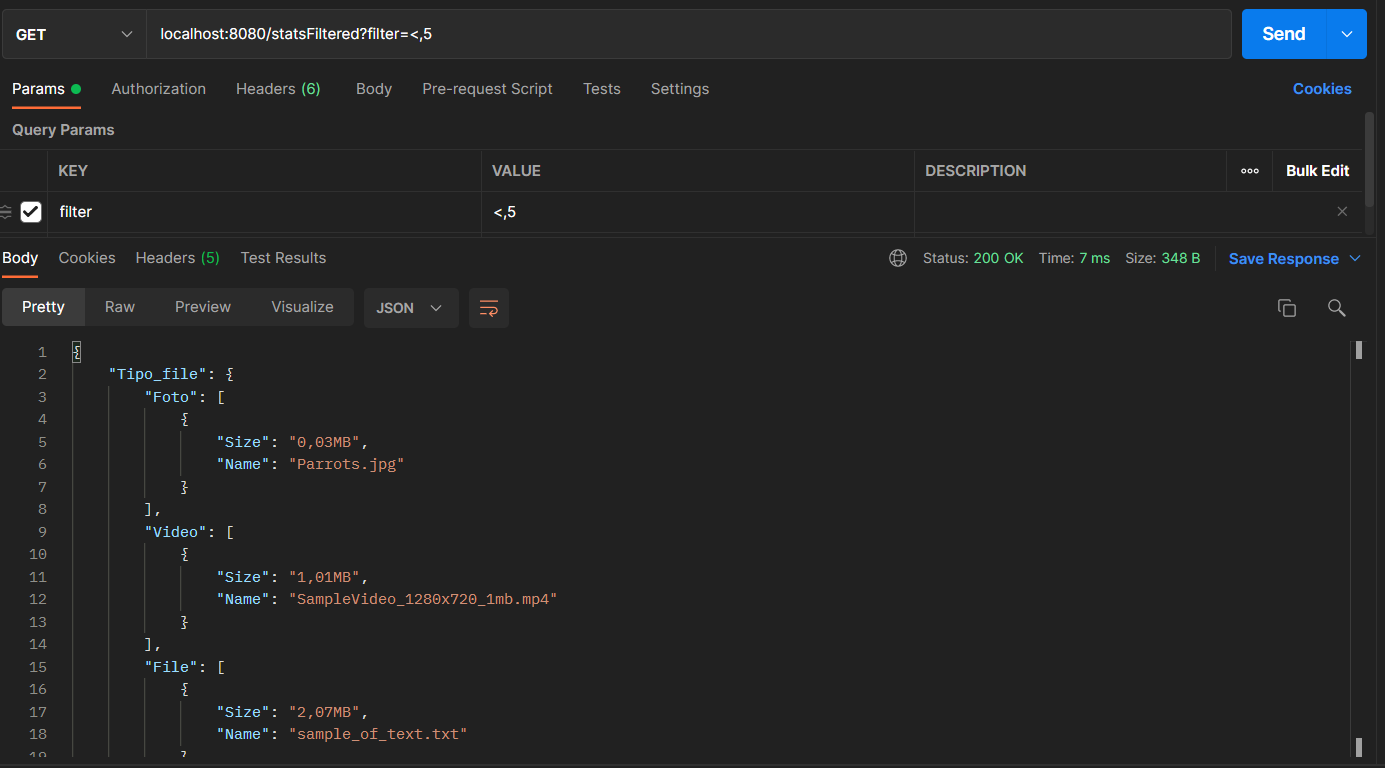
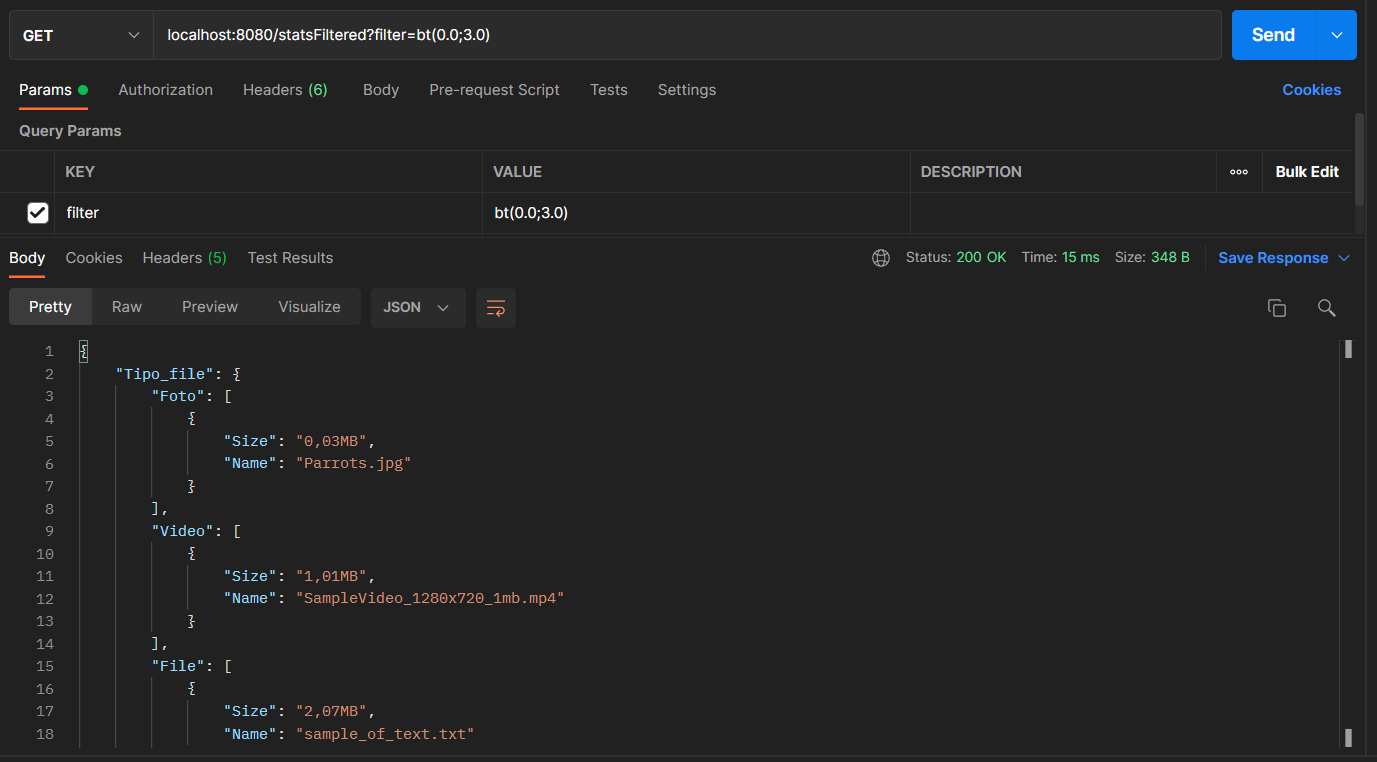
Correzione errori generali
-Ottimizzazione chiamata filteredStats
-Correzione errori readme
-Aggiunto Apache commons come dependency al pom.xml

diff --git a/src/main/java/it/giuugcola/OOPProject/restController/CallsHandler.java b/src/main/java/it/giuugcola/OOPProject/restController/CallsHandler.java
@@ -6,14 +6,15 @@ import it.giuugcola.OOPProject.metaData.DownloadedContent;
 import it.giuugcola.OOPProject.metaData.FileMinAvgMax;
 import it.giuugcola.OOPProject.metaData.MultiMedia;
 import it.giuugcola.OOPProject.settings.DropboxClient;
-import org.springframework.util.StringUtils;
+import org.apache.commons.lang3.StringUtils;
 
 import java.io.*;
 import java.util.ArrayList;
 import java.util.Collections;
 import java.util.Map;
+import java.util.stream.Stream;
 
-public class CallsHandler{
+public class CallsHandler {
 
     private static final String DOWNLOAD_FOLDER_PATH = "Downloads";
 
@@ -21,9 +22,7 @@ public class CallsHandler{
         ListFolderResult metadata = null;
 
         try {
-            metadata = DropboxClient.getClient()
-                    .files()
-                    .listFolder("");
+            metadata = DropboxClient.getClient().files().listFolder("");
         } catch (DbxException e) {
             e.printStackTrace();
         }
@@ -35,9 +34,7 @@ public class CallsHandler{
         Metadata metadata = null;
 
         try {
-            metadata = DropboxClient.getClient()
-                    .files()
-                    .getMetadata(path);
+            metadata = DropboxClient.getClient().files().getMetadata(path);
         } catch (DbxException e) {
             e.printStackTrace();
         }
@@ -51,10 +48,7 @@ public class CallsHandler{
         FileMetadata metadata = null;
         try {
             OutputStream outputStream = new FileOutputStream(download_where);
-            metadata = DropboxClient.getClient()
-                    .files()
-                    .downloadBuilder(path)
-                    .download(outputStream);
+            metadata = DropboxClient.getClient().files().downloadBuilder(path).download(outputStream);
             outputStream.close();
         } catch (DbxException | IOException e) {
             e.printStackTrace();
@@ -69,10 +63,7 @@ public class CallsHandler{
         DownloadZipResult metadata = null;
         try {
             OutputStream outputStream = new FileOutputStream(download_where);
-            metadata = DropboxClient.getClient()
-                    .files()
-                    .downloadZipBuilder(path)
-                    .download(outputStream);
+            metadata = DropboxClient.getClient().files().downloadZipBuilder(path).download(outputStream);
             outputStream.close();
         } catch (DbxException | IOException e) {
             e.printStackTrace();
@@ -88,134 +79,73 @@ public class CallsHandler{
 
         FileMinAvgMax fileMinAvgMax = new FileMinAvgMax();
 
-        String minFile = "", maxFile = "", minPhoto = "", maxPhoto = "", minVideo = "", maxVideo = "", avgFile = "", avgPhoto = "", avgVideo = "";
-
-        if (!mapFiles.isEmpty()) {
-            minFile = Collections.min(mapFiles.values());
-            maxFile = Collections.max(mapFiles.values());
-            double sum = 0.0;
-
-            for (Map.Entry<String, String> entry : mapFiles.entrySet()) {
-                if (entry.getValue().equals(minFile))
-                    minFile = entry.getKey() + " " + minFile;
-                if (entry.getValue().equals(maxFile))
-                    maxFile = entry.getKey() + " " + maxFile;
-                sum += Double.parseDouble(entry.getValue().substring(0, entry.getValue().length() - 2).replace(",", "."));
-            }
-            avgFile = String.format("%.2f", sum / mapFiles.size()) + "MB";
-            fileMinAvgMax.getMinAvgMaxFile().add(minFile);
-            fileMinAvgMax.getMinAvgMaxFile().add(avgFile);
-            fileMinAvgMax.getMinAvgMaxFile().add(maxFile);
+        if (!Stream.of(mapFiles, mapPhotos, mapVideos).allMatch(Map::isEmpty)) {
+            mapStats(mapFiles, fileMinAvgMax, "file");
+            mapStats(mapPhotos, fileMinAvgMax, "photo");
+            mapStats(mapVideos, fileMinAvgMax, "video");
         }
-
-        if (!mapPhotos.isEmpty()) {
-            minPhoto = Collections.min(mapPhotos.values());
-            maxPhoto = Collections.max(mapPhotos.values());
-            double sum = 0.0;
-
-            for (Map.Entry<String, String> entry : mapPhotos.entrySet()) {
-                if (entry.getValue().equals(minPhoto))
-                    minPhoto = entry.getKey() + " " + minPhoto;
-                if (entry.getValue().equals(maxPhoto))
-                    maxPhoto = entry.getKey() + " " + maxPhoto;
-                sum += Double.parseDouble(entry.getValue().substring(0, entry.getValue().length() - 2).replace(",", "."));
-            }
-            avgPhoto = String.format("%.2f", sum / mapPhotos.size()) + "MB";
-            fileMinAvgMax.getMinAvgMaxPhoto().add(minPhoto);
-            fileMinAvgMax.getMinAvgMaxPhoto().add(avgPhoto);
-            fileMinAvgMax.getMinAvgMaxPhoto().add(maxPhoto);
-        }
-
-        if (!mapVideos.isEmpty()) {
-            minVideo = Collections.min(mapVideos.values());
-            maxVideo = Collections.max(mapVideos.values());
-            double sum = 0.0;
-
-            for (Map.Entry<String, String> entry : mapVideos.entrySet()) {
-                if (entry.getValue().equals(minVideo))
-                    minVideo = entry.getKey() + " " + minVideo;
-                if (entry.getValue().equals(maxVideo))
-                    maxVideo = entry.getKey() + " " + maxVideo;
-                sum += Double.parseDouble(entry.getValue().substring(0, entry.getValue().length() - 2).replace(",", "."));
-            }
-            avgVideo = String.format("%.2f", sum / mapVideos.size()) + "MB";
-            fileMinAvgMax.getMinAvgMaxVideo().add(minVideo);
-            fileMinAvgMax.getMinAvgMaxVideo().add(avgVideo);
-            fileMinAvgMax.getMinAvgMaxVideo().add(maxVideo);
-        }
-
-        System.out.println(minFile + "|" + avgFile + "|" + maxFile + "\n" +
-                minPhoto + "|" + avgPhoto + "|" + maxPhoto + "\n" +
-                minVideo + "|" + avgVideo + "|" + maxVideo);
 
         return fileMinAvgMax;
     }
 
     public static DownloadedContent statsFiltered(DownloadedContent downloadList, String filter) {
         ArrayList<MultiMedia> filteredFiles = new ArrayList<>();
-        String separator = ",";
-        String between = "bt";
+        final String regex = "[()]";
+        final String separator = ";";
+        final String between = "bt";
 
-        if (filter.contains(",")) {
-            int count = StringUtils.countOccurrencesOf(filter, separator);
-            String[] filterSeparated = filter.split(",");
-            if (count == 1) {
-                Double compareValue = CallsHandler.checkInput(filterSeparated[1]);
-                switch (filterSeparated[0]) {
+        if (filter.contains("(") && filter.contains(")")) {
+            String[] fiterSplitted = filter.split(regex);
+            int count = StringUtils.countMatches(fiterSplitted[1], separator);
+            if (count == 0) {
+                Double compareValue = CallsHandler.checkInput(fiterSplitted[1]);
+                switch (fiterSplitted[0]) {
                     case "<" -> {
                         for (MultiMedia m : downloadList.getMultimedia()) {
-                            if (m.getSizeMB() < compareValue)
-                                filteredFiles.add(m);
+                            if (m.getSizeMB() < compareValue) filteredFiles.add(m);
                         }
                     }
                     case ">" -> {
                         for (MultiMedia m : downloadList.getMultimedia()) {
-                            if (m.getSizeMB() > compareValue)
-                                filteredFiles.add(m);
+                            if (m.getSizeMB() > compareValue) filteredFiles.add(m);
                         }
                     }
                     case "<=" -> {
                         for (MultiMedia m : downloadList.getMultimedia()) {
-                            if (m.getSizeMB() <= compareValue)
-                                filteredFiles.add(m);
+                            if (m.getSizeMB() <= compareValue) filteredFiles.add(m);
                         }
                     }
                     case ">=" -> {
                         for (MultiMedia m : downloadList.getMultimedia()) {
-                            if (m.getSizeMB() >= compareValue)
-                                filteredFiles.add(m);
+                            if (m.getSizeMB() >= compareValue) filteredFiles.add(m);
                         }
                     }
                     case "=" -> {
                         for (MultiMedia m : downloadList.getMultimedia()) {
-                            if (m.getSizeMB().equals(compareValue))
-                                filteredFiles.add(m);
+                            if (m.getSizeMB().equals(compareValue)) filteredFiles.add(m);
                         }
                     }
                 }
-            } else if (count == 2) {
-                if (filterSeparated[0].equals(between)) {
-                    Double value1 = CallsHandler.checkInput(filterSeparated[1]);
-                    Double value2 = CallsHandler.checkInput(filterSeparated[2]);
+            } else if (count == 1) {
+                String[] valueSplitted = fiterSplitted[1].split(separator);
+                if (fiterSplitted[0].equals(between)) {
+                    Double value1 = CallsHandler.checkInput(valueSplitted[0]);
+                    Double value2 = CallsHandler.checkInput(valueSplitted[1]);
                     for (MultiMedia m : downloadList.getMultimedia()) {
-                        if (value2 >= m.getSizeMB() && value1 <= m.getSizeMB())
-                            filteredFiles.add(m);
+                        if (value2 >= m.getSizeMB() && value1 <= m.getSizeMB()) filteredFiles.add(m);
                     }
-                } else
-                    System.out.println("Operatore non valido");
-            } else
-                System.out.println("Filtro invalido");
+                } else System.out.println("Operatore non valido");
+            } else System.out.println("Filtro invalido");
         } else if (filter.isEmpty()) {
             return downloadList;
-        } else
-            System.out.println("Nessun separatore");
+        } else System.out.println("Non ci sono le parentesi");
 
 
         return new DownloadedContent(filteredFiles);
     }
 
     //Controllo presenza virgola, punto da input, se non presenti viene aggiunto il punto
-    public static Double checkInput(String str) {
+    private static Double checkInput(String str) {
         System.out.println(str);
         double value;
         if (str.contains(".")) {
@@ -226,6 +156,36 @@ public class CallsHandler{
             value = Double.parseDouble(str.concat(".0"));
         }
         return value;
+    }
+
+    private static void mapStats(Map<String, String> map, FileMinAvgMax fileMinAvgMax, String type) {
+        System.out.println(map);
+        if (!map.isEmpty()) {
+            String[] types = {"file", "photo", "video"};
+            String min = Collections.min(map.values());
+            String max = Collections.max(map.values());
+            double sum = 0.0;
+
+            for (Map.Entry<String, String> entry : map.entrySet()) {
+                if (entry.getValue().equals(min)) min = entry.getKey() + " " + min;
+                if (entry.getValue().equals(max)) max = entry.getKey() + " " + max;
+                sum += Double.parseDouble(entry.getValue().substring(0, entry.getValue().length() - 2).replace(",", "."));
+            }
+            String avg = String.format("%.2f", sum / map.size()) + "MB";
+            if (type.equals(types[0])) {
+                fileMinAvgMax.getMinAvgMaxFile().add(min);
+                fileMinAvgMax.getMinAvgMaxFile().add(avg);
+                fileMinAvgMax.getMinAvgMaxFile().add(max);
+            } else if (type.equals(types[1])) {
+                fileMinAvgMax.getMinAvgMaxPhoto().add(min);
+                fileMinAvgMax.getMinAvgMaxPhoto().add(avg);
+                fileMinAvgMax.getMinAvgMaxPhoto().add(max);
+            } else if (type.equals(types[2])) {
+                fileMinAvgMax.getMinAvgMaxVideo().add(min);
+                fileMinAvgMax.getMinAvgMaxVideo().add(avg);
+                fileMinAvgMax.getMinAvgMaxVideo().add(max);
+            }
+        }
     }
 
     //Esempio input: /Images/AboutYesterday/Animals/dog.jpg

diff --git a/src/main/java/it/giuugcola/OOPProject/utility/Html.java b/src/main/java/it/giuugcola/OOPProject/utility/Html.java
@@ -1,7 +1,5 @@
 package it.giuugcola.OOPProject.utility;
 
-import org.json.simple.JSONObject;
-
 public class Html {
 
     public static String homePage() {

diff --git a/README.md b/README.md
@@ -13,9 +13,9 @@
 
   
 <a name="introduzione"></a>  
-## Introduzione 
+## Introduzione :blue_book:
 
-<img src="img/dB/MiniLogoBlu.png" align="right" alt="Icona Dropbox" width="88" height="88">
+<img src="img/dB/MiniLogoBlu.png" alt="Icona Dropbox" width="88" height="88" style="float: right">
 
 L'applicazione SpringBoot qui pubblicata ha come scopo principale quello di scaricare file dal proprio account Dropbox, 
 mediante l'utilizzo della [Dropbox Api V2](https://www.dropbox.com/developers/documentation/http/overview).  
@@ -29,7 +29,7 @@ mediante l'utilizzo della [Dropbox Api V2](https://www.dropbox.com/developers/do
   
   
 <a name="rotte"></a>
-## Rotte  
+## Rotte :globe_with_meridians: 
 
 | Tipo     | Rotta            | Descrizione                                                      |
 |----------|------------------|------------------------------------------------------------------|
@@ -39,7 +39,7 @@ mediante l'utilizzo della [Dropbox Api V2](https://www.dropbox.com/developers/do
 | ` get `  | `/statsFiltered` | Effettua le statistiche sui file scaricati in base al parametro. |
  
 <a name="rotte-aggiuntive"></a> 
-## Rotte aggiuntive
+## Rotte aggiuntive :globe_with_meridians::heavy_plus_sign:
 | Tipo     | Rotta              | Descrizione                                                            |
 |----------|--------------------|------------------------------------------------------------------------|
 | ` post ` | `/getDataPathName` | Restituisce informazioni sul percorso specificato.                     |
@@ -47,7 +47,7 @@ mediante l'utilizzo della [Dropbox Api V2](https://www.dropbox.com/developers/do
 | ` get `  | `/minAvgMax`       | Calcola dimensione minima, media e massima per tipo di file scaricato. |
 
 <a name="rotte-post"></a>
-## Rotte POST
+## Rotte POST :arrow_down:
 
 ### /downloadZip
 #### Chiamata su Postman
@@ -142,11 +142,11 @@ In risposta otteniamo un JSON di questo formato:
 ```  
 
 <a name="rotte-get"></a>
-## Rotte GET
+## Rotte GET :arrow_up:
 ## /stats
 ### Chiamata su Postman
 ![rotta stats](img/get/stats.png "Immagine stats")
-La chiamate restituisce un JSON dove vengono inseriti, suddivisi per tipologia, i file
+La chiamata restituisce un JSON dove vengono inseriti, suddivisi per tipologia, i file
 scaricati.  
 In risposta otteniamo un JSON di questo formato: 
 ```json
@@ -176,7 +176,7 @@ In risposta otteniamo un JSON di questo formato:
 ## /minAvgMax
 ### Chiamata su Postman
 ![rotta minAvgMax](img/get/mam.png "Immagine minAvgMax")
-La chiamate restituisce un JSON dove vengono inseriti i file scaricati divisi per dimensioni 
+La chiamata restituisce un JSON dove vengono inseriti i file scaricati divisi per dimensioni 
 minime, massime e media dimensioni per tipo di file.  
 
 In risposta otteniamo un JSON di questo formato:
@@ -239,12 +239,14 @@ La chiamata prende un parametro chiamato `filter` il cui valore viene assegnato 
 | `=`     | Uguale            |
 | `bt`    | Compreso          |
 
-Una volta scelto il simbolo per formare il filtro aggiungiamo una virgola e la dimensione 
-desiderata, ad esempio: `filter=>,1` oppure se vogliamo utilizzare un numero con la virgola, 
-`filter=>,1.0`, prestando attenzione a utilizzare il punto e non la virgola nella dimensione.  
+Una volta scelto il simbolo per creare il filtro apriamo le parentesi tonde e inseriamo 
+la dimensione desiderata, ad esempio: `filter=>(1)` oppure se vogliamo utilizzare un numero con la virgola, 
+`filter=>(1.0)`.  
+  
+Nello specificare la dimensione si possono utilizzare anche i decimi, ad esempio `2.4` o `2,4`. 
   
 Nel caso di `bt` oltre alla prima dimensione bisogna aggiungerne un'altra separata dalla prima 
-con una `,`, ad esempio: `filter=bt,1,2` oppure `filter=bt,1.0,1.2`.
+con un punto e virgola `;`, ad esempio: `filter=bt(1;2)` oppure `filter=bt(1.0;1.2)`.
 
 In risposta otteniamo un JSON di questo formato:
 ```json
@@ -272,14 +274,14 @@ In risposta otteniamo un JSON di questo formato:
 }
 ```
 <a name="tecnologie-utilizzate"></a>
-## Tecnologie utilizzate
+## Tecnologie utilizzate :gear:
 
 Per la realizzazione di questa applicazione sono stati implementati all'interno del 
 progetto [SpringBoot](https://spring.io/), [Dropbox Api V2](https://www.dropbox.com/developers/documentation/http/overview) e 
 [Dropbox Java SDK](https://www.dropbox.com/developers/documentation/java).
 
 <a name="autori"></a>
-## Autori
+## Autori :muscle:
 
 | Nome                                                    |                    |
 |---------------------------------------------------------|--------------------|
